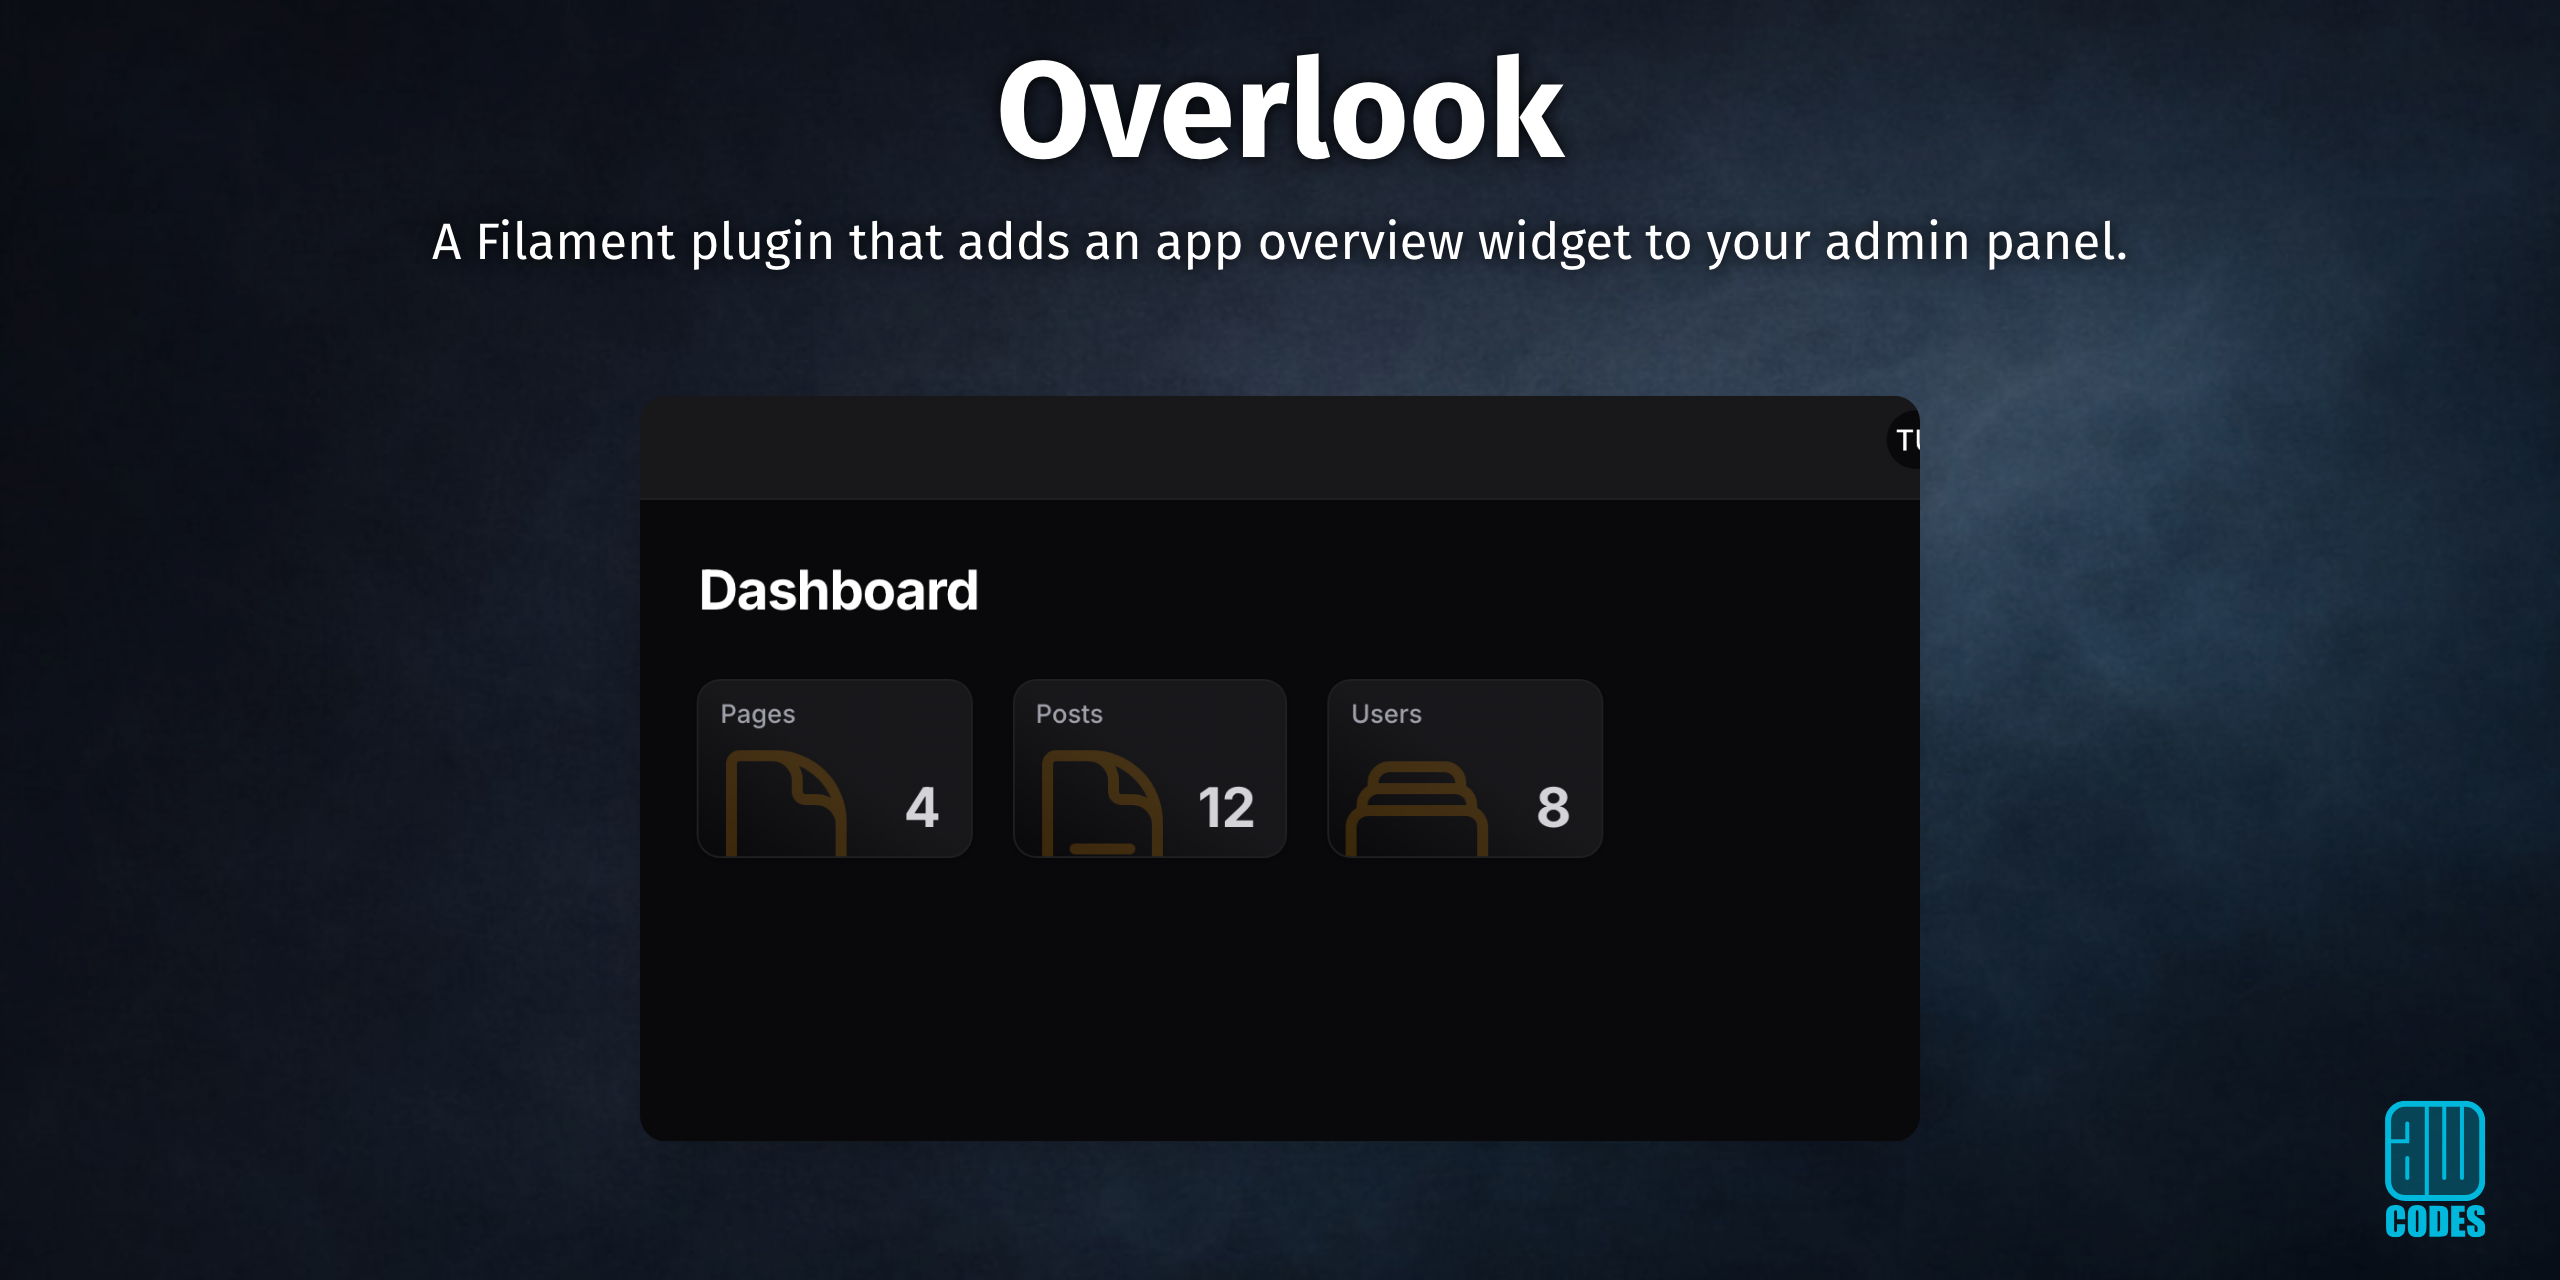
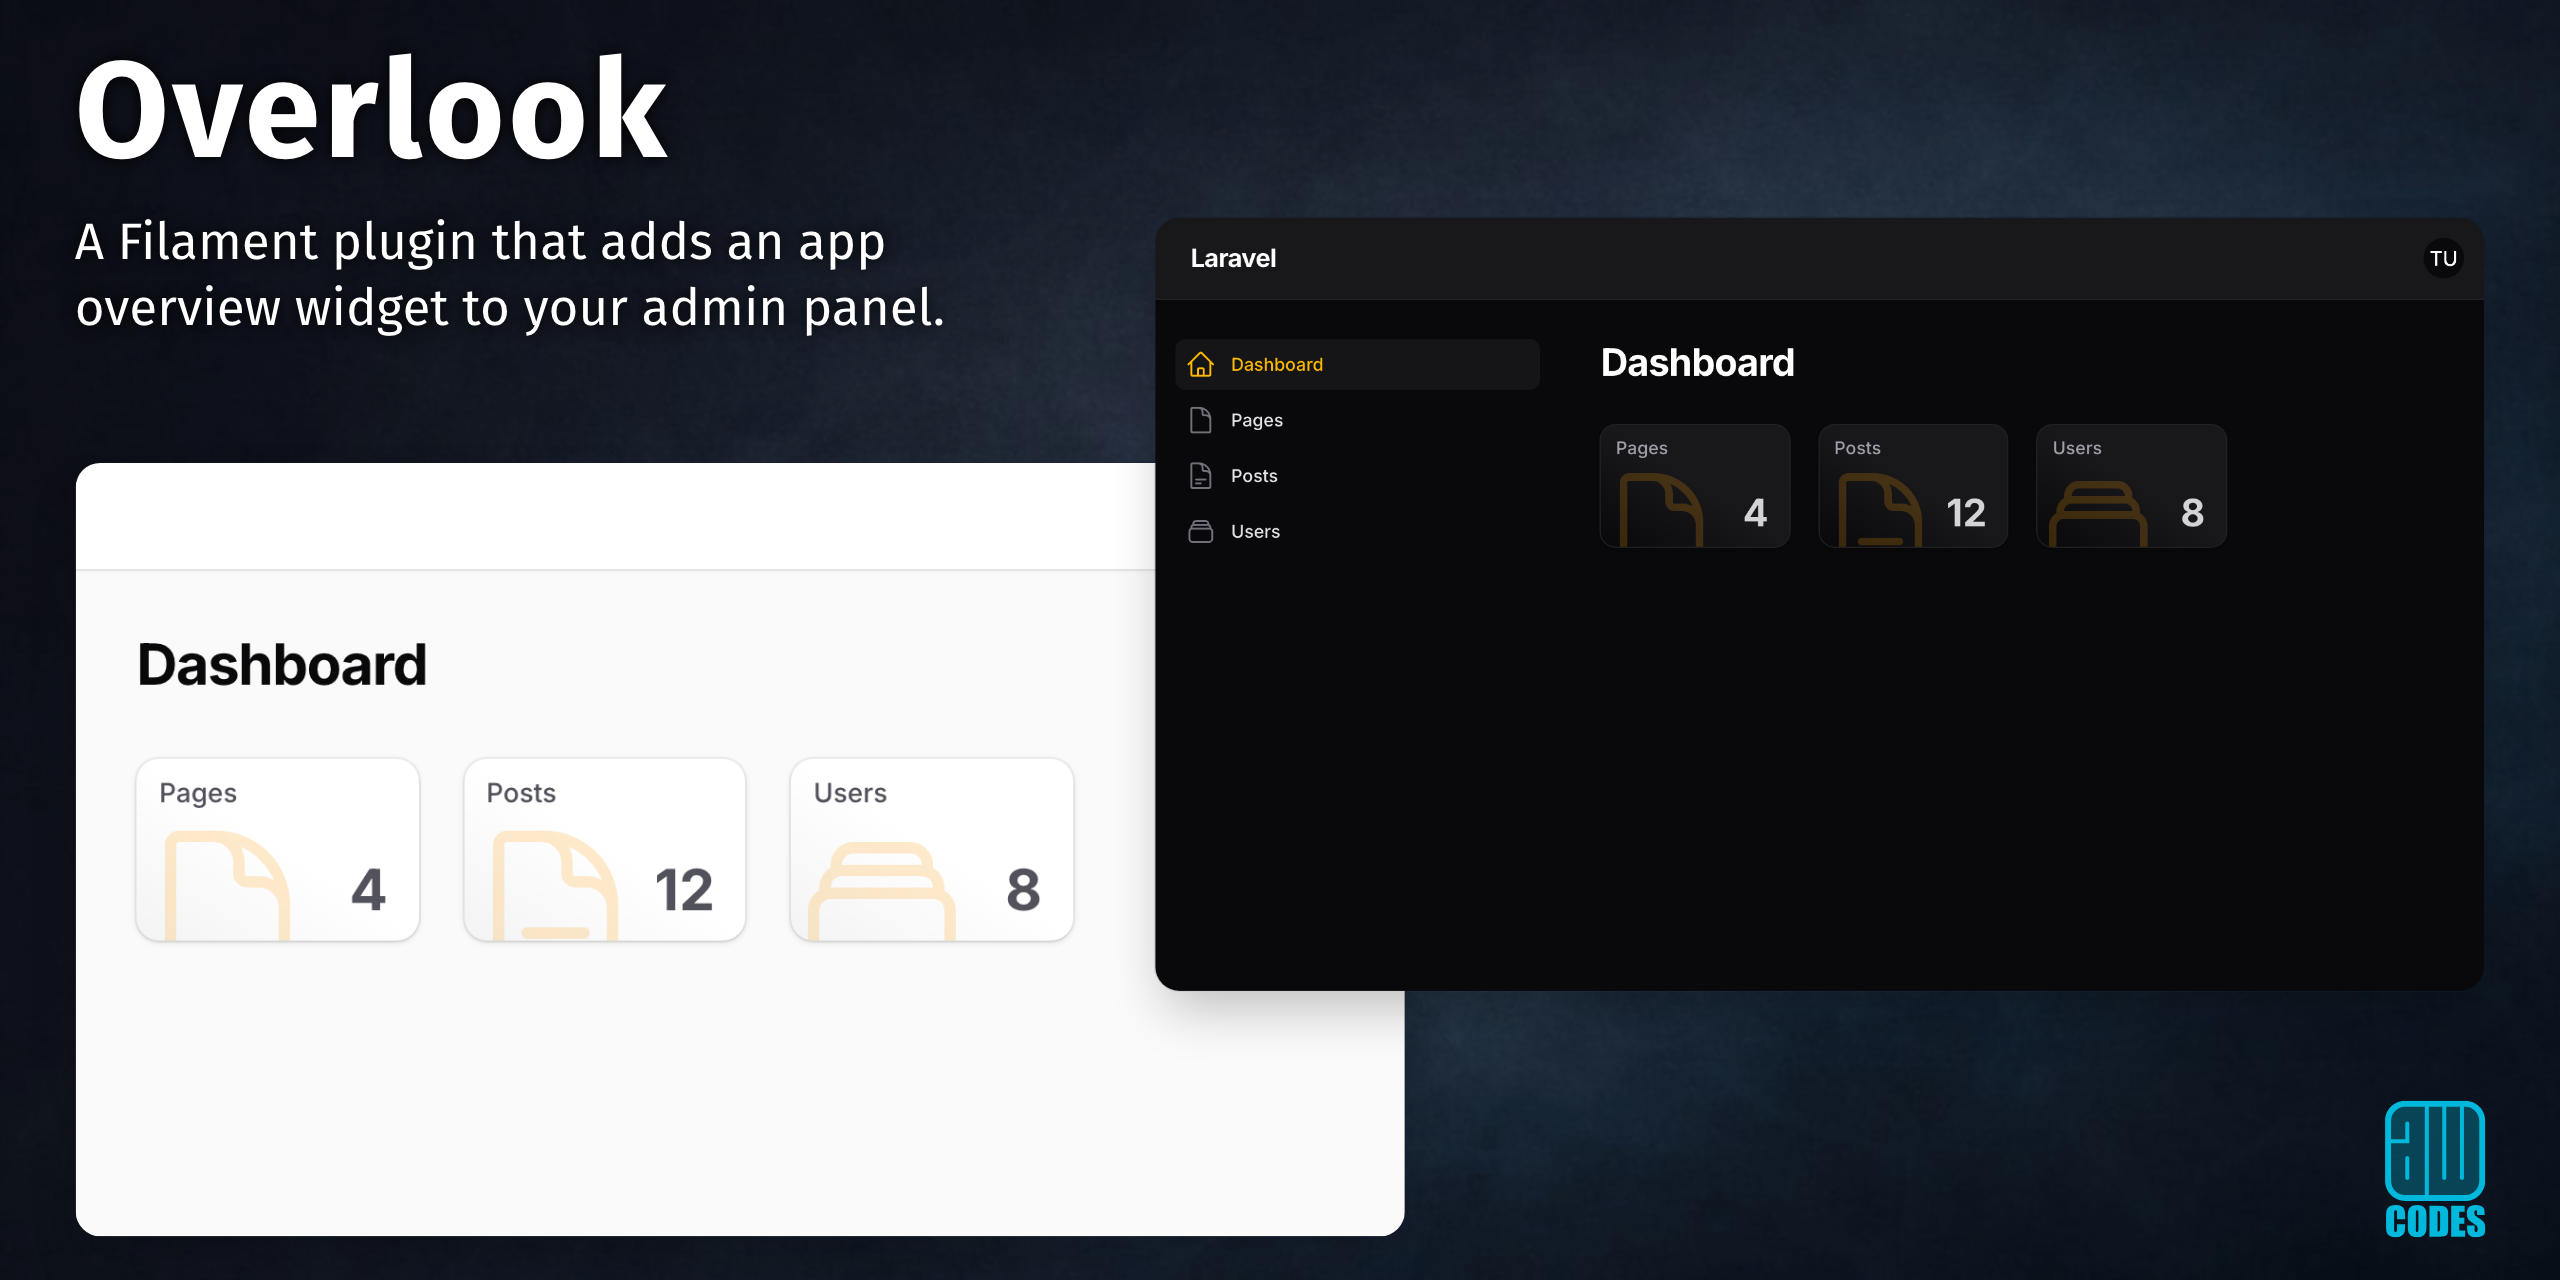
chore: render the social card with the two-up template
The Open Graph and GitHub social cards now use two-up-wide with the
dashboard dark and the widget light, matching the Filament directory
thumbnail, so every Filament card in the fleet is two-up.

diff --git a/focus.php b/focus.php
@@ -57,8 +57,8 @@ return ScreenshotSuite::make()
     ->cards([
         // Open Graph and the GitHub social preview share one 2400x1260 template; GitHub crops 30px top and bottom.
         Card::make('social')
-            ->template('one-up-wide')
-            ->screenshots(['card-widget'])
+            ->template('two-up-wide')
+            ->screenshots(['card-dashboard', 'card-widget'])
             ->sizes([Size::OpenGraph, Size::GitHubSocial]),
 
         // The Filament plugin directory's 2560x1440 thumbnail.
